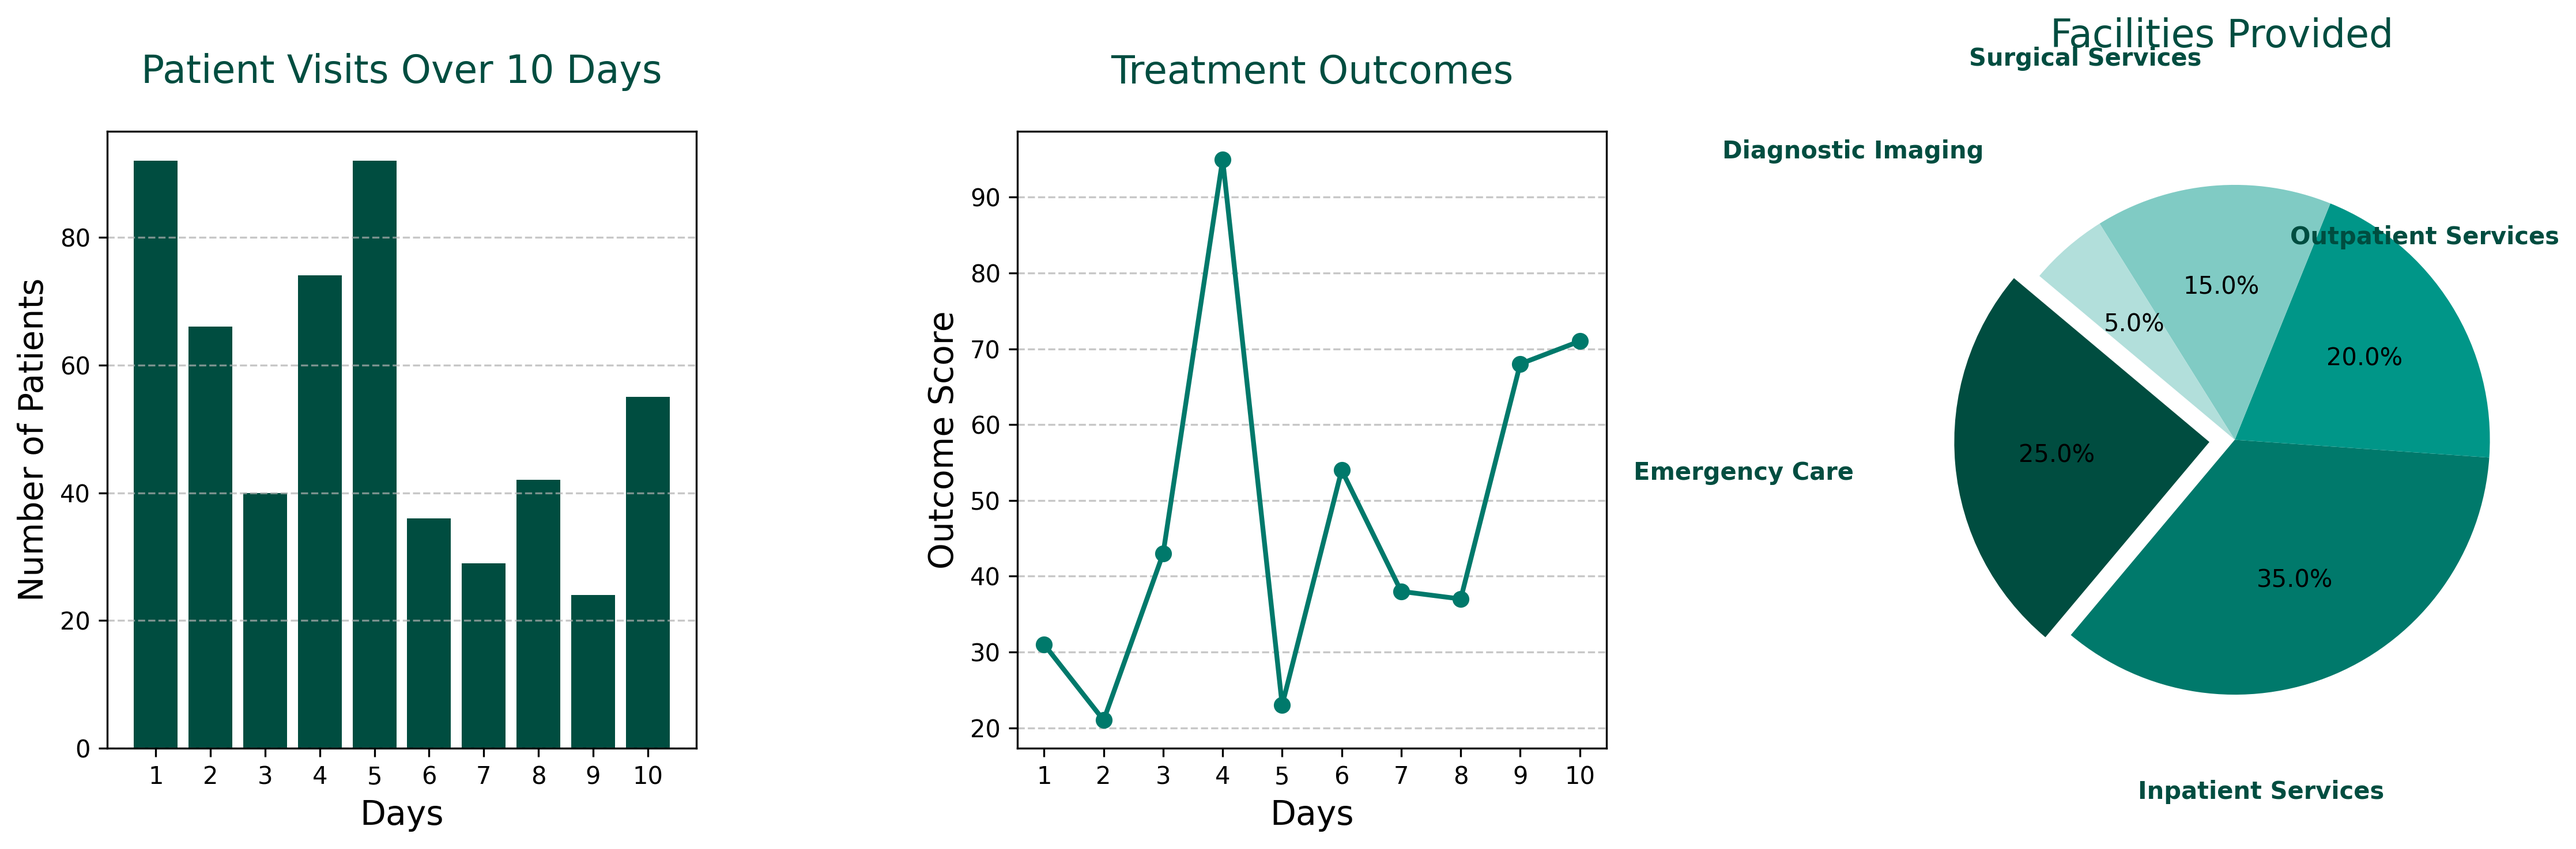
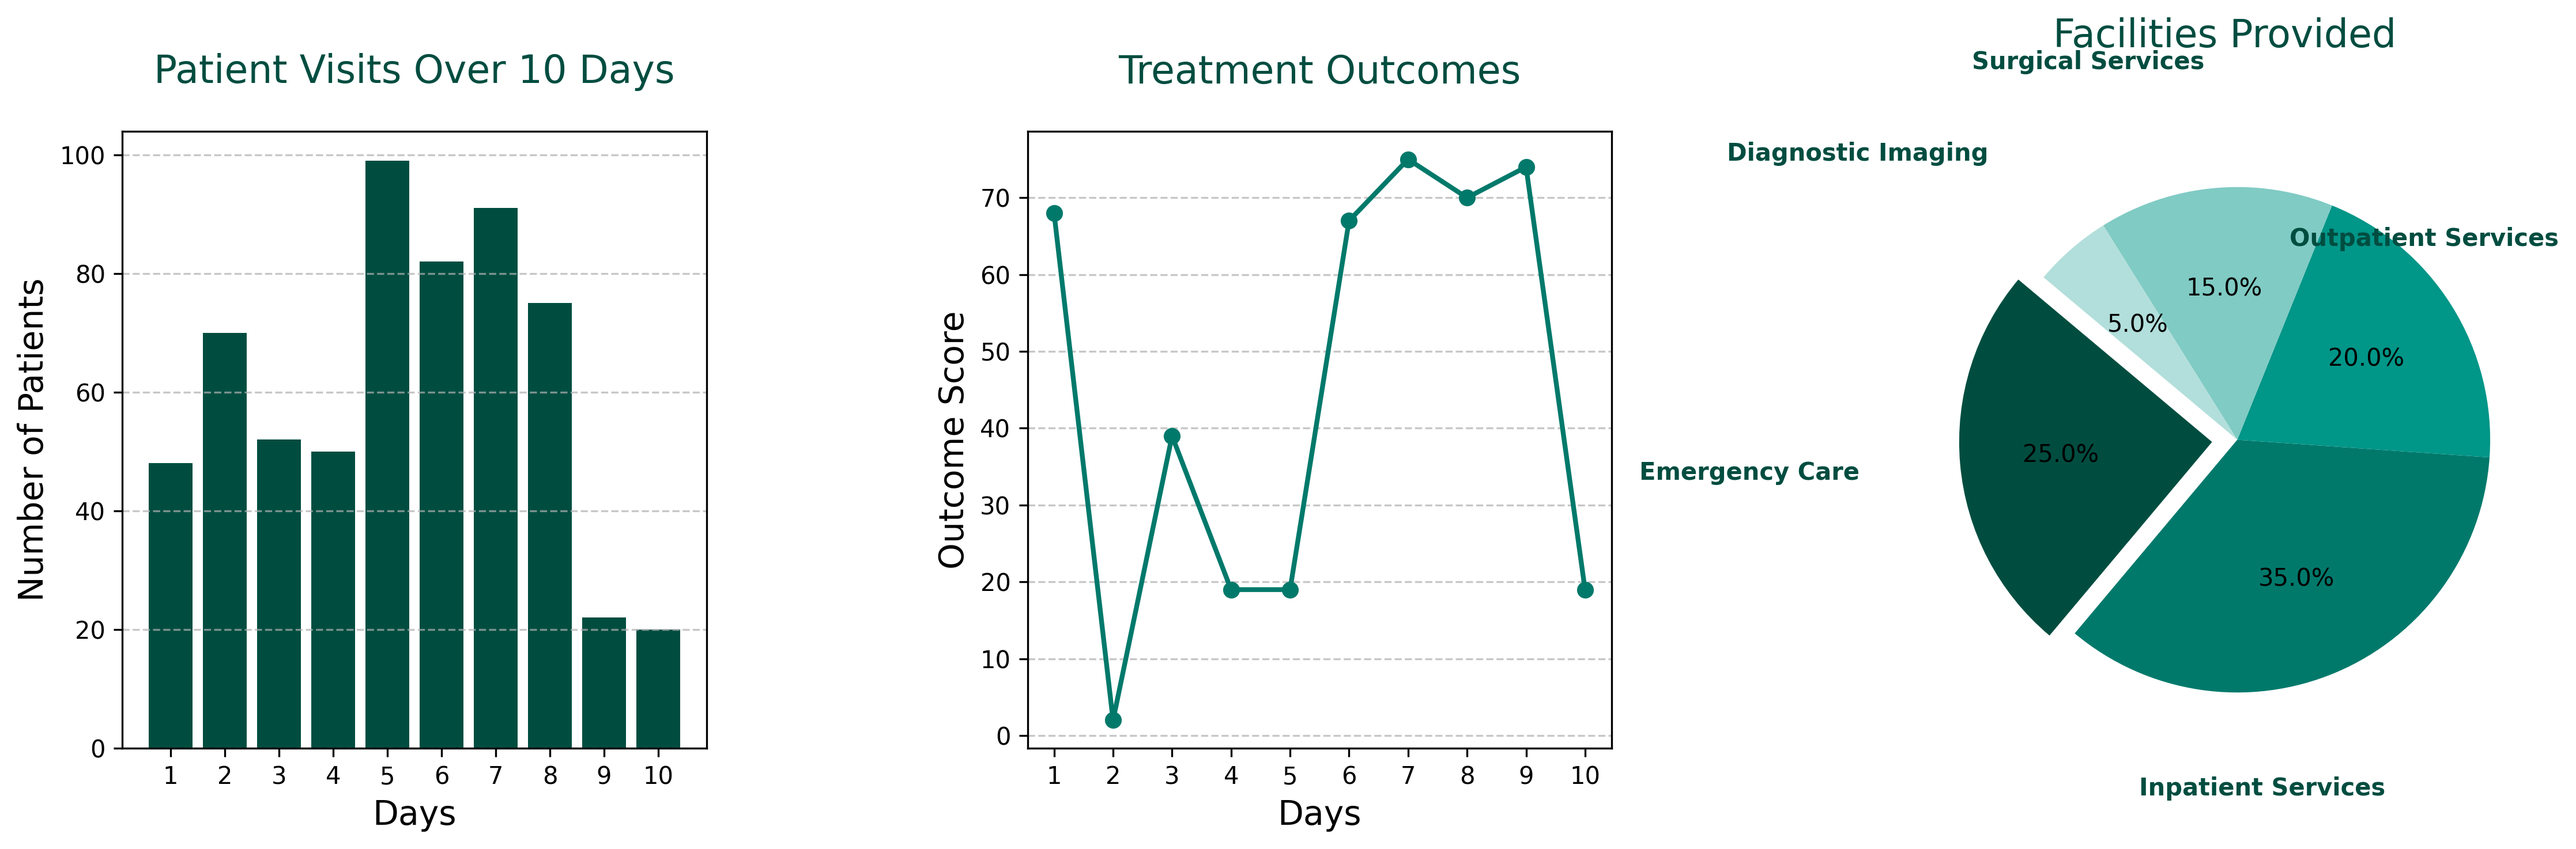
Finalized styling on homepage and Completed final adjustments for database connection

diff --git a/app.py b/app.py
@@ -769,8 +769,67 @@ def logout_admin():
     else:
         return redirect(url_for('home'))
 
+def generate_graphs():
+    import matplotlib.pyplot as plt
+    import numpy as np
+
+    # Data for plotting
+    x = np.arange(1, 11)
+    y1 = np.random.randint(1, 100, size=10)  # Random patient visits for 10 days
+    y2 = np.random.randint(1, 100, size=10)  # Random treatment outcomes
+
+    # Creating the first graph (Patient Visits)
+    plt.figure(figsize=(15, 5))
+    plt.subplot(1, 3, 1)  # First plot in a 1x3 grid
+    plt.bar(x, y1, color='#004d40')  # Dark teal color for the bars
+    plt.title('Patient Visits Over 10 Days', fontsize=16, color='#004d40', pad=20)  # Adding padding to the title
+    plt.xlabel('Days', fontsize=14)
+    plt.ylabel('Number of Patients', fontsize=14)
+    plt.xticks(x)
+    plt.grid(axis='y', linestyle='--', alpha=0.7)
+
+    # Creating the second graph (Treatment Outcomes)
+    plt.subplot(1, 3, 2)  # Second plot in a 1x3 grid
+    plt.plot(x, y2, marker='o', color='#00796b', linestyle='-', linewidth=2)  # Lighter shade of teal
+    plt.title('Treatment Outcomes', fontsize=16, color='#004d40', pad=20)  # Adding padding to the title
+    plt.xlabel('Days', fontsize=14)
+    plt.ylabel('Outcome Score', fontsize=14)
+    plt.xticks(x)
+    plt.grid(axis='y', linestyle='--', alpha=0.7)
+
+    # Data for the pie chart (Facilities Provided)
+    facilities = ['Emergency Care', 'Inpatient Services', 'Outpatient Services', 'Surgical Services', 'Diagnostic Imaging']
+    sizes = [25, 35, 20, 15, 5]  # Represents the percentage of each facility
+
+    # Define colors using a dark teal palette
+    pie_colors = ['#004d40', '#00796b', '#009688', '#80cbc4', '#b2dfdb']
+
+    # Creating the third graph (Facilities Pie Chart)
+    plt.subplot(1, 3, 3)  # Third plot in a 1x3 grid
+    wedges, texts, autotexts = plt.pie(
+        sizes, labels=None, colors=pie_colors, startangle=140, explode=(0.1, 0, 0, 0, 0), autopct='%1.1f%%'
+    )
+
+    # Positioning labels outside the pie chart with adjusted spacing
+    label_distance = 1.5  # Increased radial distance for clearer label spacing
+    for i, wedge in enumerate(wedges):
+        angle = (wedge.theta1 + wedge.theta2) / 2.0
+        x = label_distance * wedge.r * np.cos(np.deg2rad(angle))  # Position labels further outside
+        y = label_distance * wedge.r * np.sin(np.deg2rad(angle))
+        ha = 'right' if angle > 90 else 'left'  # Adjust horizontal alignment based on position
+        plt.text(x, y, facilities[i], ha=ha, va='center', color='#004d40', fontsize=10, fontweight='bold')
+
+    plt.axis('equal')
+    plt.title('Facilities Provided', fontsize=16, color='#004d40', pad=35)  # Additional padding for the title
+
+    # Save all graphs in a single row with a consistent style
+    plt.tight_layout()
+    plt.savefig('static/all_charts.png', bbox_inches='tight', dpi=300)
+    plt.show()
+
 if __name__ == '__main__':
     with app.app_context():
+        generate_graphs()
         # db.drop_all()
         db.create_all()  # Creates the tables in the database
         if not (Doctor.query.first() or Patient.query.first() or Admin.query.first()):
